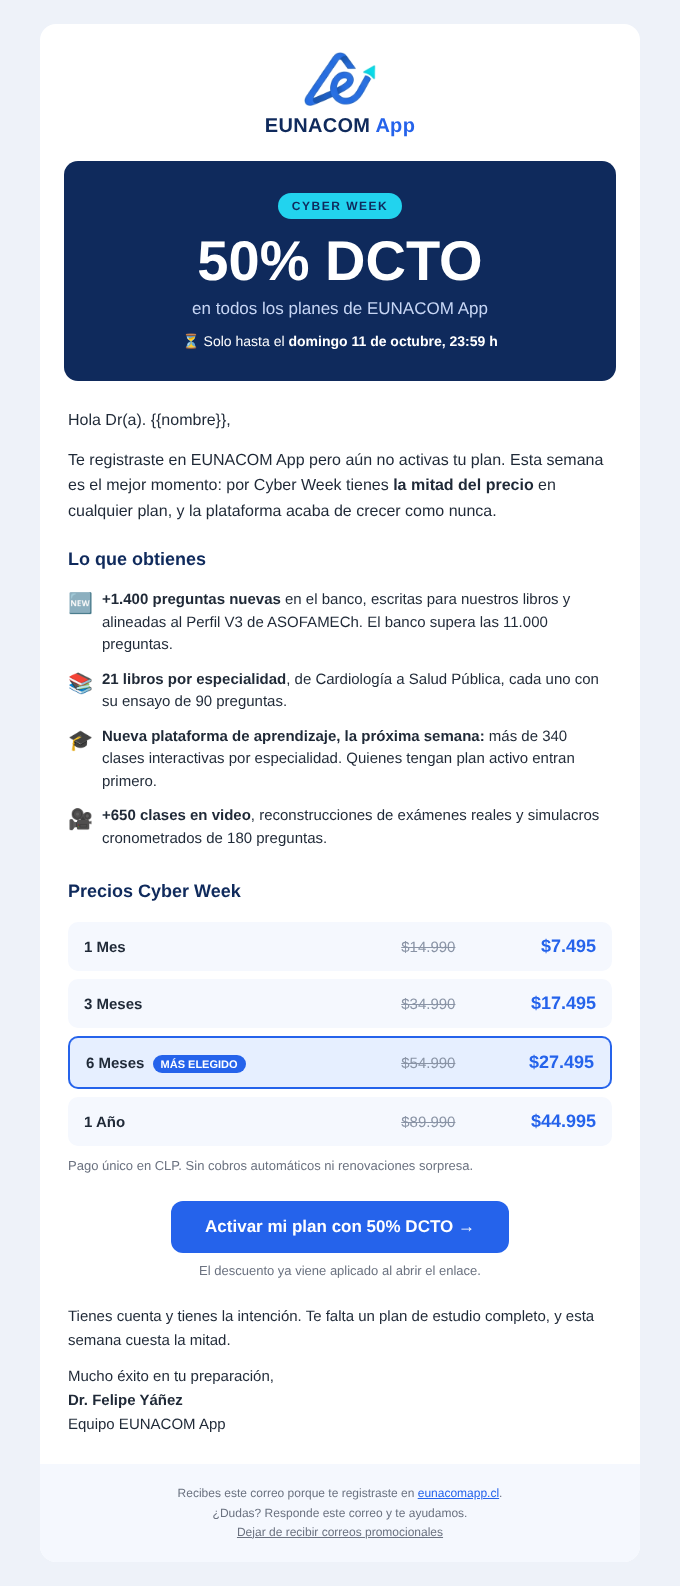
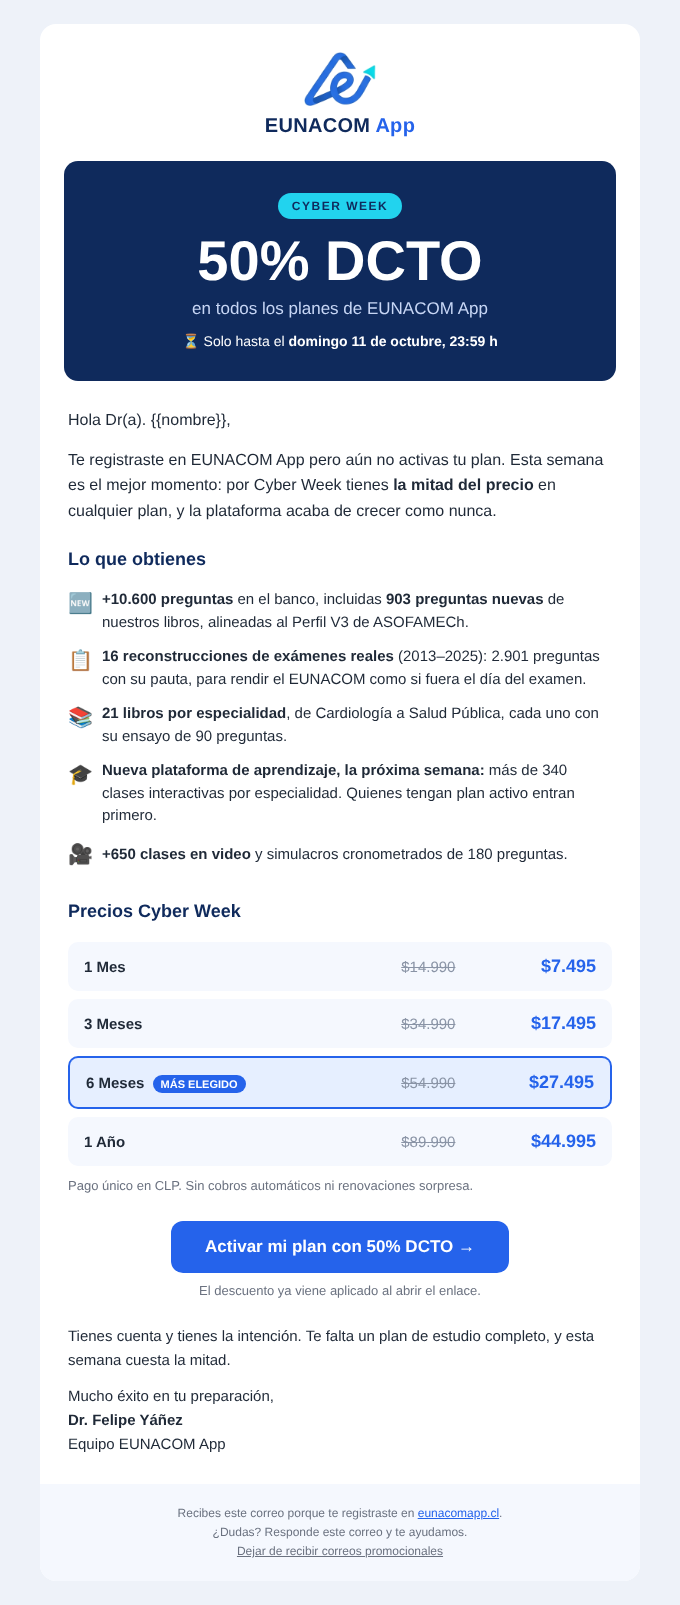
Export book questions to app bank; email with real totals; admin/checkout screenshots
Claude-Session: https://claude.ai/code/session_01JLhdgW7Po8nQkn3Zc4MF6j

Changed region(s): [[0.0926, 0.0309, 0.8956, 0.9887], [0.8338, 0.8033, 0.8647, 0.8342]]

diff --git a/marketing/cyber-monday-2026/email_cyber_monday.html b/marketing/cyber-monday-2026/email_cyber_monday.html
@@ -8,7 +8,7 @@
 <body style="margin:0;padding:0;background:#eef2f9;font-family:Arial,Helvetica,sans-serif;color:#1f2937;">
 <!-- Preheader (texto que se ve en la bandeja de entrada) -->
 <div style="display:none;max-height:0;overflow:hidden;opacity:0;">
-  50% DCTO en todos los planes: +1.400 preguntas nuevas, 21 libros y la nueva plataforma de clases. Solo por Cyber Week.
+  50% DCTO en todos los planes: +10.600 preguntas, 16 reconstrucciones reales, 21 libros y la nueva plataforma de clases. Solo esta Cyber Week.
 </div>
 
 <table role="presentation" width="100%" cellpadding="0" cellspacing="0" border="0" style="background:#eef2f9;">
@@ -46,10 +46,11 @@
   <tr><td style="padding:6px 28px 4px;">
     <div style="font-size:18px;font-weight:bold;color:#0f2a5c;margin-bottom:12px;">Lo que obtienes</div>
     <table role="presentation" width="100%" cellpadding="0" cellspacing="0" border="0" style="font-size:15px;line-height:1.5;">
-      <tr><td width="34" valign="top" style="padding:6px 0;font-size:20px;">🆕</td><td style="padding:6px 0;"><strong>+1.400 preguntas nuevas</strong> en el banco, escritas para nuestros libros y alineadas al Perfil V3 de ASOFAMECh. El banco supera las 11.000 preguntas.</td></tr>
+      <tr><td width="34" valign="top" style="padding:6px 0;font-size:20px;">🆕</td><td style="padding:6px 0;"><strong>+10.600 preguntas</strong> en el banco, incluidas <strong>903 preguntas nuevas</strong> de nuestros libros, alineadas al Perfil V3 de ASOFAMECh.</td></tr>
+      <tr><td width="34" valign="top" style="padding:6px 0;font-size:20px;">📋</td><td style="padding:6px 0;"><strong>16 reconstrucciones de exámenes reales</strong> (2013–2025): 2.901 preguntas con su pauta, para rendir el EUNACOM como si fuera el día del examen.</td></tr>
       <tr><td width="34" valign="top" style="padding:6px 0;font-size:20px;">📚</td><td style="padding:6px 0;"><strong>21 libros por especialidad</strong>, de Cardiología a Salud Pública, cada uno con su ensayo de 90 preguntas.</td></tr>
       <tr><td width="34" valign="top" style="padding:6px 0;font-size:20px;">🎓</td><td style="padding:6px 0;"><strong>Nueva plataforma de aprendizaje, la próxima semana:</strong> más de 340 clases interactivas por especialidad. Quienes tengan plan activo entran primero.</td></tr>
-      <tr><td width="34" valign="top" style="padding:6px 0;font-size:20px;">🎥</td><td style="padding:6px 0;"><strong>+650 clases en video</strong>, reconstrucciones de exámenes reales y simulacros cronometrados de 180 preguntas.</td></tr>
+      <tr><td width="34" valign="top" style="padding:6px 0;font-size:20px;">🎥</td><td style="padding:6px 0;"><strong>+650 clases en video</strong> y simulacros cronometrados de 180 preguntas.</td></tr>
     </table>
   </td></tr>
 

diff --git a/books/scripts/export_to_app_bank.py b/books/scripts/export_to_app_bank.py
@@ -1,0 +1,109 @@
+#!/usr/bin/env python3
+"""Append the new book questions (books/dist/ENSAYO_90Q_*.json) to the app's question bank.
+
+Usage: python3 books/scripts/export_to_app_bank.py <path to eunacom-app-v2/public/data>
+
+Skips: template filler, questions without a correct answer, and anything already online
+(questionDB, pruebas or reconstrucciones, matched by normalized stem). Answer letters are
+shuffled to fix the A/B skew, except where the explanation cites a letter.
+"""
+import glob, hashlib, json, os, random, re, sys, unicodedata, uuid
+
+DATA = sys.argv[1]
+DIST = os.path.join(os.path.dirname(__file__), '..', 'dist')
+FILLER = ('Paciente de 52 años es evaluado', 'Paciente adulto consulta de urgencia en',
+          'En el enfrentamiento clínico sistemático de')
+CITES_LETTER = re.compile(r'\b(alternativa|opci[oó]n|letra|respuesta)\s+(correcta\s+es\s+(la\s+)?)?[A-E]\b|\([A-E]\)|\b[A-E]\)')
+BOOKS = {
+    'CARDIOLOGIA': ('Módulo 1', 'Cardiología'), 'DIABETES': ('Módulo 1', 'Endocrinología'),
+    'ENDOCRINOLOGIA': ('Módulo 1', 'Endocrinología'), 'GASTROENTEROLOGIA': ('Módulo 1', 'Gastroenterología'),
+    'HEMATOLOGIA': ('Módulo 1', 'Hematología'), 'INFECTOLOGIA': ('Módulo 1', 'Infectología'),
+    'NEFROLOGIA': ('Módulo 1', 'Nefrología'), 'NEUMOLOGIA': ('Módulo 1', 'Respiratorio'),
+    'NEUROLOGIA': ('Módulo 1', 'Neurología'), 'REUMATOLOGIA': ('Módulo 1', 'Reumatología'),
+    'CIRUGIA': ('Módulo 2', 'Cirugía y Anestesia'), 'DERMATOLOGIA': ('Módulo 2', 'Dermatología'),
+    'OFTALMOLOGIA': ('Módulo 2', 'Oftalmología'), 'OTORRINO': ('Módulo 2', 'Otorrinolaringología'),
+    'PSIQUIATRIA': ('Módulo 2', 'Psiquiatría'), 'SALUDPUBLICA': ('Módulo 2', 'Salud Pública'),
+    'TRAUMATOLOGIA': ('Módulo 2', 'Traumatología'), 'UROLOGIA': ('Módulo 2', 'Urología'),
+    'GINECOLOGIA': ('Módulo 3', 'Ginecología'), 'OBSTETRICIA': ('Módulo 3', 'Obstetricia'),
+    'PEDIATRIA': ('Módulo 3', 'Pediatría'),
+}
+
+
+def norm(s):
+    s = unicodedata.normalize('NFKD', (s or '').lower())
+    s = re.sub(r'\[[^\]]*\]', '', s)
+    s = re.sub(r'[^a-z0-9 ]', '', s)
+    return ' '.join(s.split())
+
+
+def online_stems():
+    stems = set()
+    for q in json.load(open(os.path.join(DATA, 'questionDB.json'))):
+        stems.add(norm(q['question']))
+    for f in glob.glob(os.path.join(DATA, 'pruebas', 'modulo-*.json')):
+        for p in json.load(open(f)).get('pruebas', []):
+            for q in p.get('questions', []):
+                stems.add(norm(q.get('pregunta')))
+    for f in glob.glob(os.path.join(DATA, 'reconstrucciones', 'eunacom-*.json')):
+        for q in json.load(open(f))['questions']:
+            stems.add(norm(q.get('question') or q.get('pregunta') or q.get('enunciado')))
+    return stems
+
+
+def shuffled(q):
+    """Shuffle option order deterministically and relabel A–E; returns (choices, correct)."""
+    rng = random.Random(int(hashlib.md5(q['id'].encode()).hexdigest(), 16))
+    opts = list(q['options'])
+    rng.shuffle(opts)
+    letters = 'ABCDE'
+    correct = next(letters[i] for i, o in enumerate(opts) if o['id'] == q['correcta'])
+    return [{'id': letters[i], 'text': o['text']} for i, o in enumerate(opts)], correct
+
+
+def main():
+    db_path = os.path.join(DATA, 'questionDB.json')
+    bank = json.load(open(db_path))
+    seen = online_stems()
+    added = skipped_filler = skipped_dupe = skipped_noanswer = 0
+    for f in sorted(glob.glob(os.path.join(DIST, 'ENSAYO_90Q_*.json'))):
+        key = os.path.basename(f)[len('ENSAYO_90Q_'):-len('.json')]
+        category, topic = BOOKS[key]
+        for q in json.load(open(f)):
+            stem = re.sub(r'^\[[^\]]*\]\s*', '', q['stem']).strip()
+            if stem.startswith(FILLER):
+                skipped_filler += 1
+                continue
+            if q.get('correcta') not in [o.get('id') for o in q.get('options', [])] or len(q.get('options', [])) < 4:
+                skipped_noanswer += 1
+                continue
+            k = norm(stem)
+            if k in seen:
+                skipped_dupe += 1
+                continue
+            seen.add(k)
+            explanation = q.get('explicacion', '')
+            if CITES_LETTER.search(explanation):
+                choices, correct = [{'id': o['id'], 'text': o['text']} for o in q['options']], q['correcta']
+            else:
+                choices, correct = shuffled(q)
+            bank.append({
+                'id': str(uuid.uuid5(uuid.NAMESPACE_URL, f"eunacom-aee-book/{q['id']}")),
+                'question': stem,
+                'choices': choices,
+                'correctAnswer': correct,
+                'explanation': explanation,
+                'incorrectExplanations': '',
+                'tags': ', '.join(t for t in ('Libro AEE 2026', q.get('blockName'), q.get('topicTitle')) if t),
+                'topic': topic,
+                'category': category,
+                'codigo_eunacom': q.get('perfilCode', ''),
+            })
+            added += 1
+    with open(db_path, 'w') as out:
+        json.dump(bank, out, ensure_ascii=False, indent=2)
+    print(f'added {added} · skipped: {skipped_dupe} already online, {skipped_filler} filler, '
+          f'{skipped_noanswer} without answer · bank now {len(bank)}')
+
+
+if __name__ == '__main__':
+    main()
